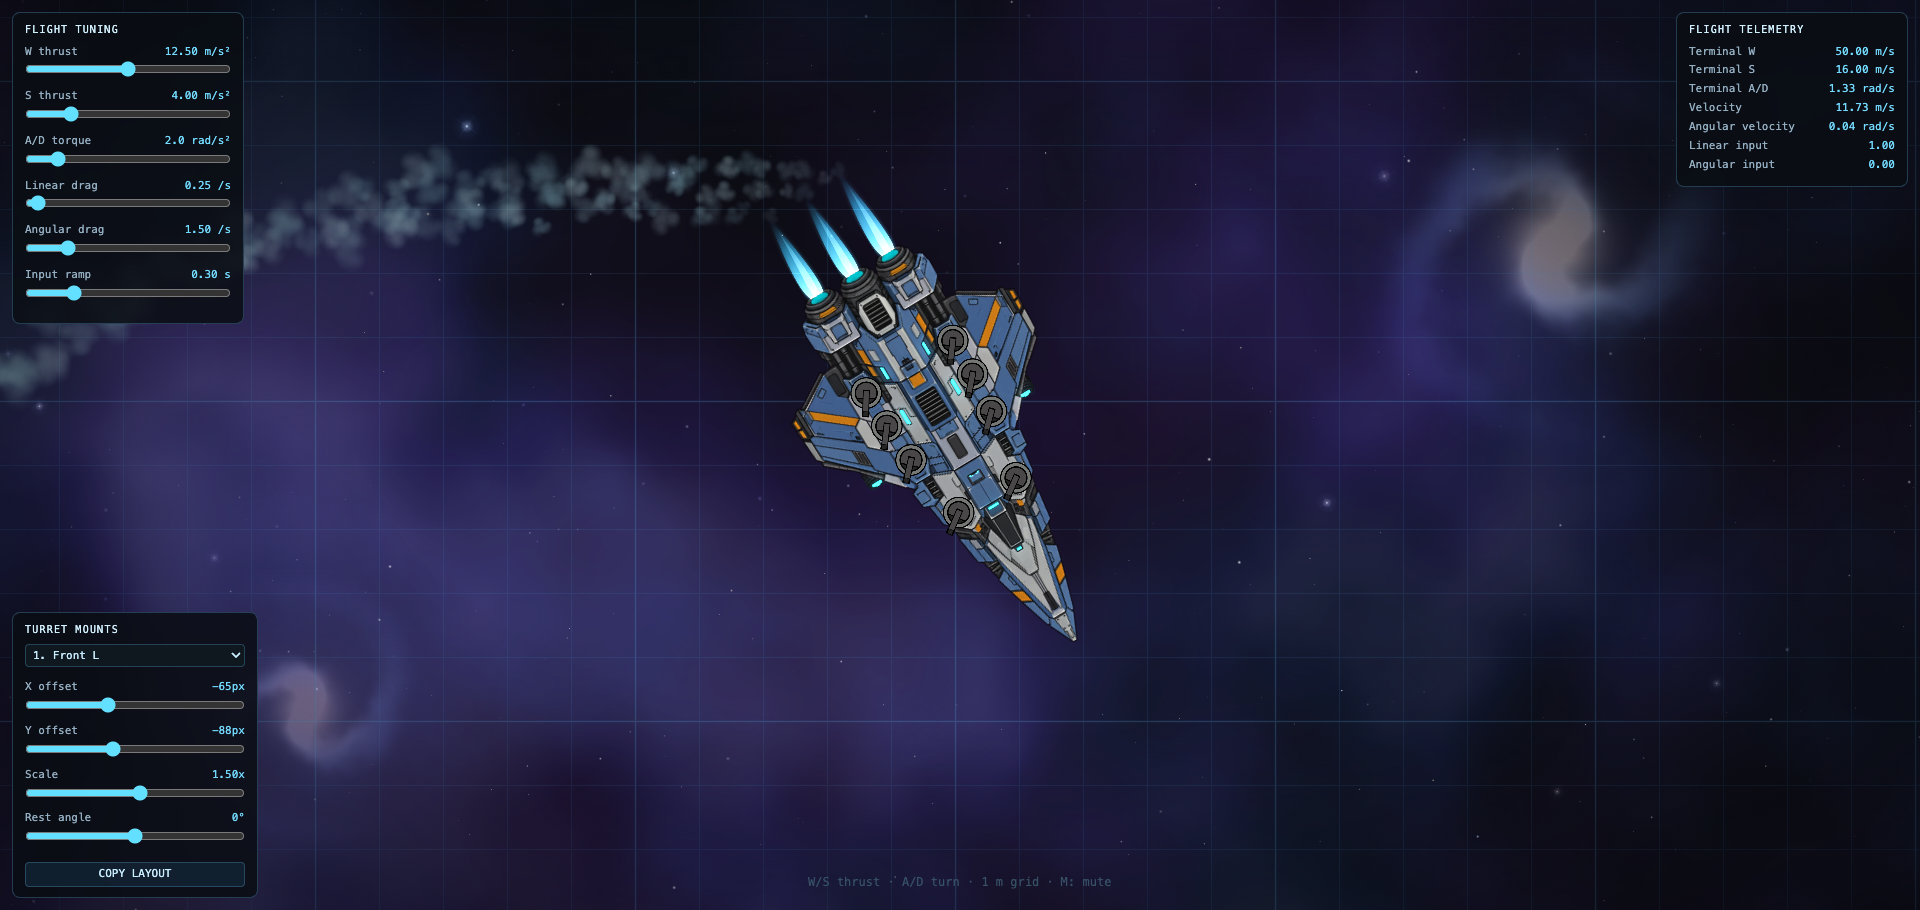
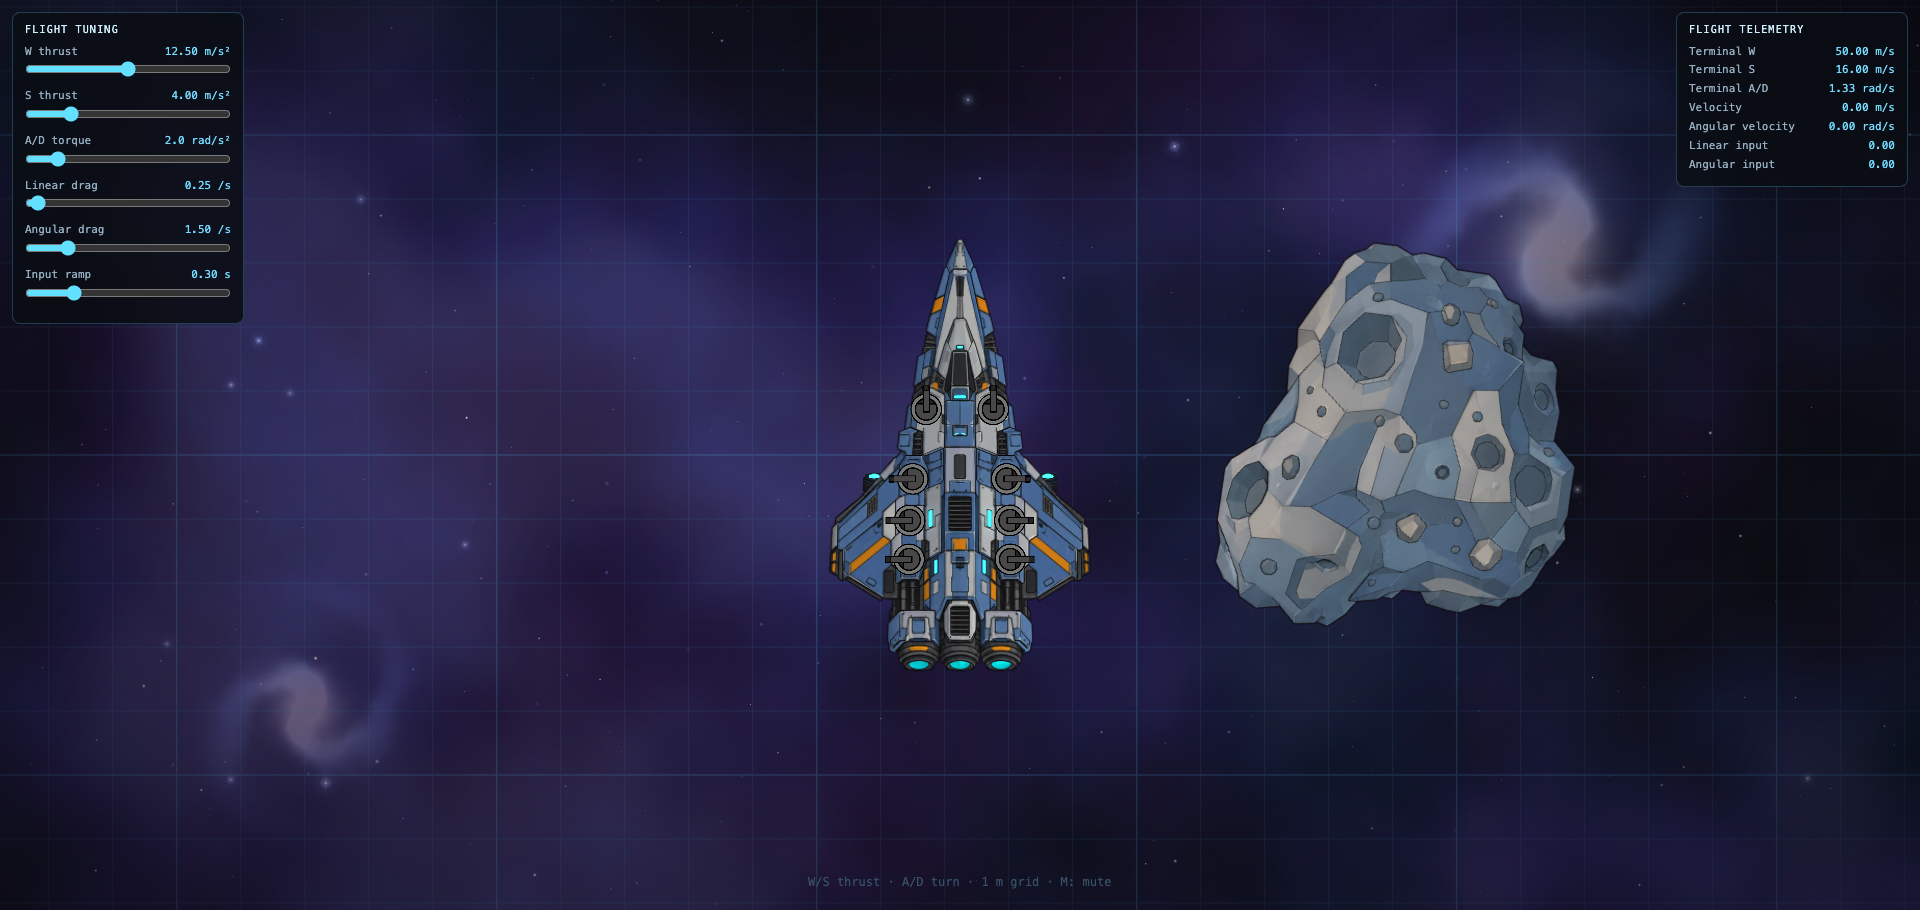
chore: remove turret placement editor

diff --git a/src/app/lighting-scene.ts b/src/app/lighting-scene.ts
@@ -14,7 +14,6 @@ import { FLAME_LOCAL_LENGTH, createEngineExhaust } from './engine-exhaust';
 import { PIXELS_PER_METER } from './world-scale';
 import { DEFAULT_TURRET_LAYOUT, createTurrets } from './turrets';
 import type { TurretMountConfig } from './turrets';
-import { createTurretEditor } from './turret-editor';
 
 export interface Scene {
   setMuted(muted: boolean): void;
@@ -287,11 +286,6 @@ export async function createScene(app: Application): Promise<Scene> {
   const telemetry = createFlightTelemetry(flight, tuning);
   document.body.append(telemetry.element);
 
-  const turretEditor = createTurretEditor(turretConfigs, (index, config) => {
-    turrets.setMount(index, config);
-  });
-  document.body.append(turretEditor.element);
-
   canvas.addEventListener('pointermove', onPointerMove);
   window.addEventListener('keydown', onKeyDown);
   window.addEventListener('keyup', onKeyUp);
@@ -317,7 +311,6 @@ export async function createScene(app: Application): Promise<Scene> {
       window.removeEventListener('blur', onBlur);
       flightTuner.destroy();
       telemetry.destroy();
-      turretEditor.destroy();
       turrets.destroy();
       exhaust.destroy();
       ground.destroy();

diff --git a/README.md b/README.md
@@ -62,7 +62,6 @@ src/
   app/engine-mix.ts       Pure ramped engine-output mixer (tested)
   app/turrets.ts          Eight turret mounts with finite-speed mouse tracking
   app/turret-aim.ts       Pure angular aim physics (tested)
-  app/turret-editor.ts    Live X/Y/scale/rest-angle turret placement editor
   app/world-scale.ts      Metres ↔ pixels conversion (64 px per metre)
   app/lit-sprite.ts       Custom normal-map Mesh shader (directional + emissive)
   app/background.ts       Layered procedural background (nebulas, galaxies, stars)
@@ -101,8 +100,7 @@ docs/                     Architecture decisions, reference art and agent workfl
 - The top-left **FLIGHT TUNING** panel has live sliders for thrust, torque, linear/angular drag
   and input ramp. The top-right **FLIGHT TELEMETRY** panel shows terminal W/S/A-D speeds,
   current velocity, angular velocity, and ramped inputs (all linear units in metres).
-- Eight turrets track the mouse with finite angular speed. The bottom-left **TURRET MOUNTS**
-  editor places each mount (X/Y/scale/rest angle); **COPY LAYOUT** copies the 8-mount JSON.
+- Eight turrets track the mouse with finite angular speed.
 - **Drag the canvas** to look around (the follow cam eases back to the ship); **scroll / pinch**
   zooms out from the default 1× (`0.02×–1×`, 50× max zoom-out). **Double-click** resets zoom.
 - **Click** for the placeholder sound; **M** mutes/unmutes.

diff --git a/public/assets/lighting/README.md b/public/assets/lighting/README.md
@@ -3,14 +3,14 @@
 Processed runtime copies of the reference art in [`docs/reference/`](../../../docs/reference/).
 These are the assets the game scene loads; do not edit them by hand.
 
-| File                  | Size    | Source                 |
-| --------------------- | ------- | ---------------------- |
-| `ship-color.png`      | 514×841 | `ship-color.webp`      |
-| `ship-normal.png`     | 514×841 | `ship-normal.webp`     |
-| `asteroid-color.png`  | 643×622 | `asteroid-color.webp`  |
-| `asteroid-normal.png` | 643×622 | `asteroid-normal.webp` |
-| `ship-emissive.png`   | 514×841 | derived cyan panels    |
-| `ship-glow.png`       | 514×841 | blurred emissive matte |
+| File                  | Size    | Source                      |
+| --------------------- | ------- | --------------------------- |
+| `ship-color.png`      | 514×841 | `ship-color.webp`           |
+| `ship-normal.png`     | 514×841 | `ship-normal.webp`          |
+| `asteroid-color.png`  | 643×622 | `asteroid-color.webp`       |
+| `asteroid-normal.png` | 643×622 | `asteroid-normal.webp`      |
+| `ship-emissive.png`   | 514×841 | derived cyan panels         |
+| `ship-glow.png`       | 514×841 | blurred emissive matte      |
 | `turret.png`          | 164×208 | `docs/reference/turret.svg` |
 
 Processing steps (one-off, not a runtime pipeline):

diff --git a/AGENTS.md b/AGENTS.md
@@ -65,7 +65,6 @@ behaviour, also run `pnpm browser:inspect` and check the screenshot.
   `tests/engine-mix.test.ts`.
 - `src/app/turrets.ts` — eight turret mounts with finite-speed mouse tracking.
 - `src/app/turret-aim.ts` — pure angular spring-damper aim, unit-tested.
-- `src/app/turret-editor.ts` — live per-mount X/Y/scale/rest-angle placement editor.
 - `src/app/lit-sprite.ts` — custom normal-map Mesh shader (directional light, emissive/glow).
 - `src/app/background.ts` — layered procedural background (nebulas, galaxies, stars, flares)
   and the smoothed camera that follows the ship.
